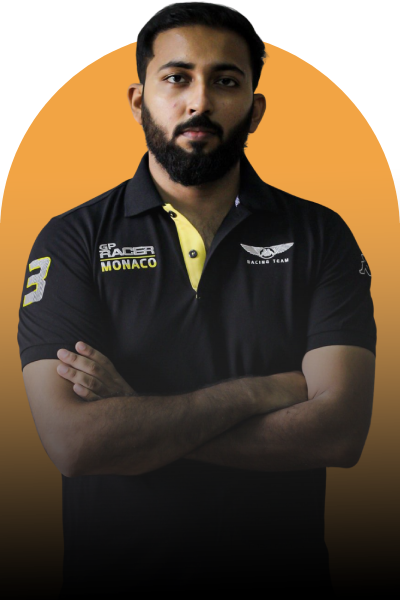
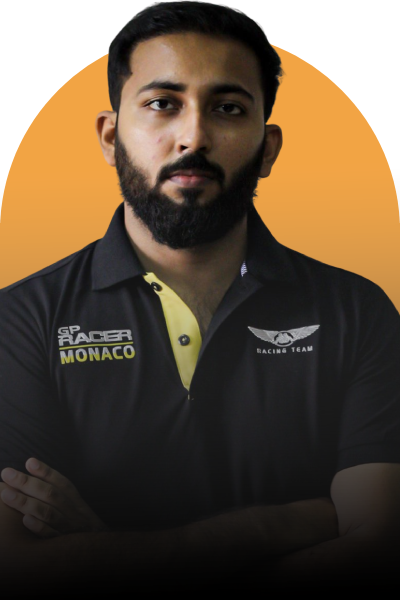
upcoming section

diff --git a/assets/styles/app.scss b/assets/styles/app.scss
@@ -112,3 +112,11 @@ p {
 .iframe-height {
   height: 500px;
 }
+
+.upcoming-projects {
+  .project {
+    img {
+      max-height: 600px;
+    }
+  }
+}
